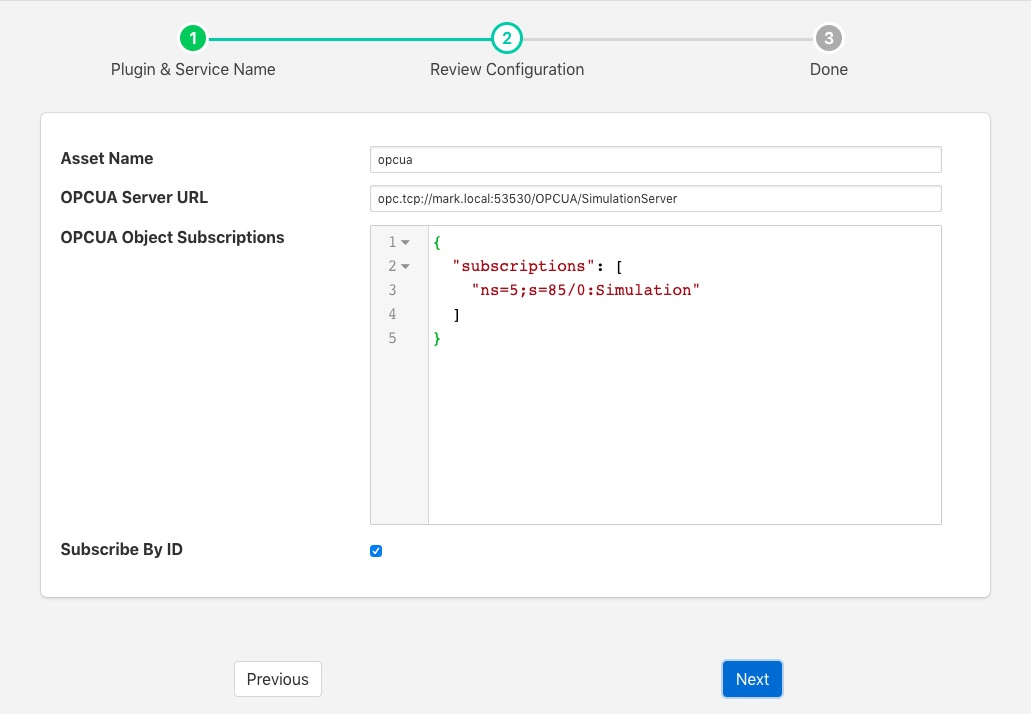
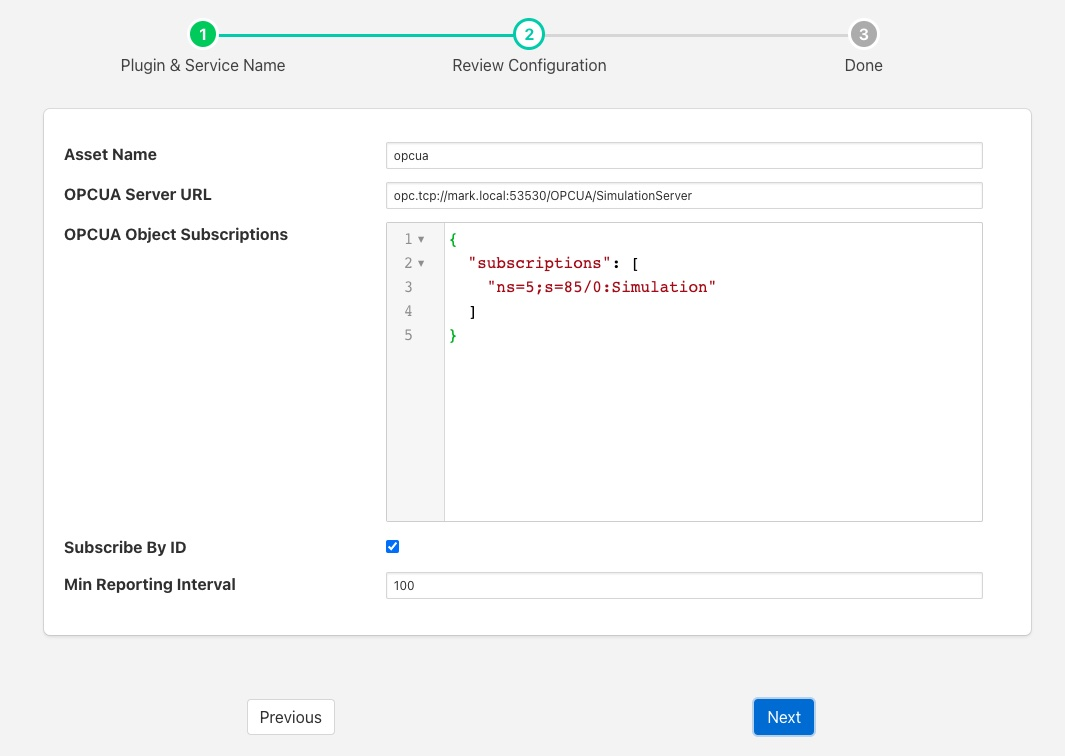
FOGL-4931 Add configuration option to control the minimum interval between data change reports

diff --git a/plugin.cpp b/plugin.cpp
@@ -61,6 +61,13 @@ const char *default_config = QUOTE({
 		"default" : "true",
 		"displayName" : "Subscribe By ID",
 		"order" : "4"
+		},
+	"reportingInterval" : {
+		"description" : "The minimum reporting interval for data change notifications" ,
+		"type" : "integer",
+		"default" : "100",
+		"displayName" : "Min Reporting Interval",
+		"order" : "5"
 		}
 	});
 
@@ -118,6 +125,16 @@ string	url;
 	else
 	{
 		opcua->setAssetName("opcua");
+	}
+
+	if (config->itemExists("reportingInterval"))
+	{
+		long val = strtol(config->getValue("reportingInterval").c_str(), NULL, 10);
+		opcua->setReportingInterval(val);
+	}
+	else
+	{
+		opcua->setReportingInterval(100);
 	}
 
 	if (config->itemExists("subscribeById"))
@@ -211,6 +228,16 @@ OPCUA		*opcua = (OPCUA *)*handle;
 	if (config.itemExists("asset"))
 	{
 		opcua->setAssetName(config.getValue("asset"));
+	}
+
+	if (config.itemExists("reportingInterval"))
+	{
+		long val = strtol(config.getValue("reportingInterval").c_str(), NULL, 10);
+		opcua->setReportingInterval(val);
+	}
+	else
+	{
+		opcua->setReportingInterval(100);
 	}
 
 	if (config.itemExists("subscribeById"))

diff --git a/opcua.cpp b/opcua.cpp
@@ -20,7 +20,7 @@ map<string, bool> subscriptionVariables;
  * Constructor for the opcua plugin
  */
 OPCUA::OPCUA(const string& url) : m_url(url), m_subscribeById(false),
-	m_connected(false), m_client(NULL), m_subClient(NULL)
+	m_connected(false), m_client(NULL), m_subClient(NULL), m_reportingInterval(100)
 {
 }
 
@@ -44,6 +44,17 @@ void
 OPCUA::setAssetName(const std::string& asset)
 {
 	m_asset = asset;
+}
+
+/**
+ * Set the minimum interval between data change events for subscriptions
+ *
+ * @param value	Interval in milliseconds
+ */
+void
+OPCUA::setReportingInterval(long value)
+{
+	m_reportingInterval = value;
 }
 
 /**
@@ -381,7 +392,7 @@ int n_subscriptions = 0;
 
 	try {
 		m_subClient = new OpcUaClient(this);
-		m_sub = m_client->CreateSubscription(100, *m_subClient);
+		m_sub = m_client->CreateSubscription(m_reportingInterval, *m_subClient);
 	} catch (exception &e) {
 		Logger::getLogger()->error("Failed to setup subscription infrastructure for OPCUA server %s: %s", m_url.c_str(), e.what());
 		throw e;

diff --git a/include/opcua.h b/include/opcua.h
@@ -34,6 +34,7 @@ class OPCUA
 		void		start();
 		void		stop();
 		void		ingest(std::vector<Datapoint *>  points);
+		void		setReportingInterval(long value);
 		void		registerIngest(void *data, void (*cb)(void *, Reading))
 				{
 					m_ingest = cb;
@@ -53,6 +54,7 @@ class OPCUA
 		std::mutex			m_configMutex;
 		bool				m_subscribeById;
 		bool				m_connected;
+		long				m_reportingInterval;
 };
 
 class OpcUaClient : public OpcUa::SubscriptionHandler

diff --git a/docs/index.rst b/docs/index.rst
@@ -36,6 +36,8 @@ The configuration parameters that can be set on this page are;
 
   - **Subscribe By ID**: This toggle determines if the OPC/UA objects in the subscription are using names to identify the objects in the OPC/UA object hierarchy or using object ID's.
 
+  - **Min Reporting Interval**: This control the minumum interval between reports of data changes in subscrioptions. It sets an upper limit to the rate that data will be ingested into the plugin and is expressed in milliseconds.
+
 Subscriptions
 -------------
 
